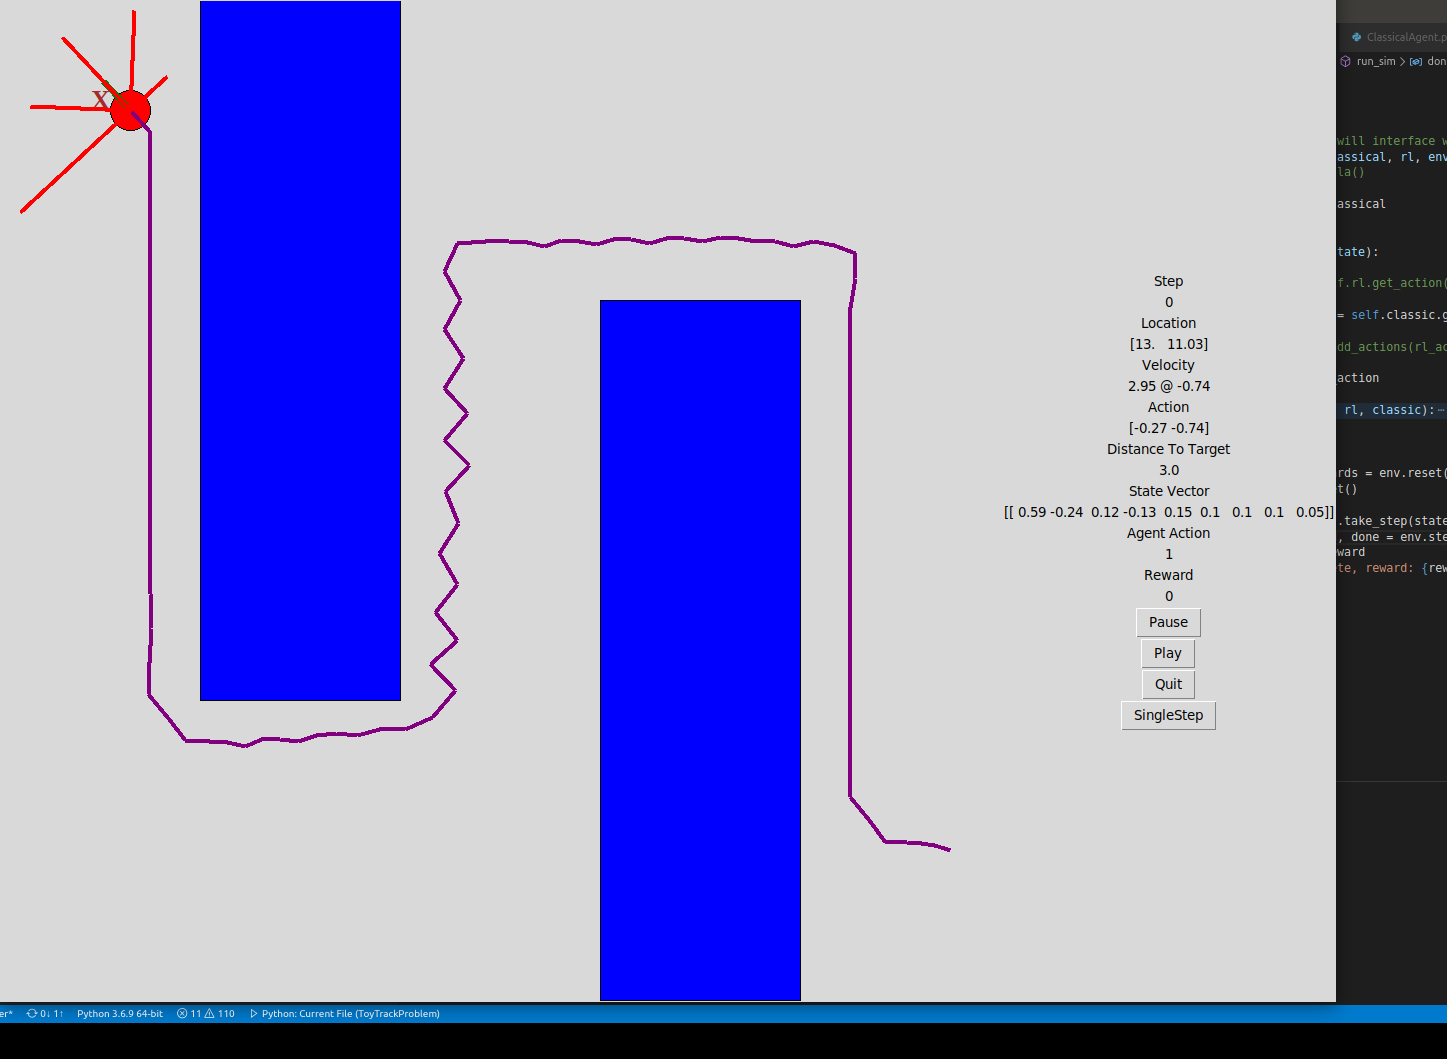
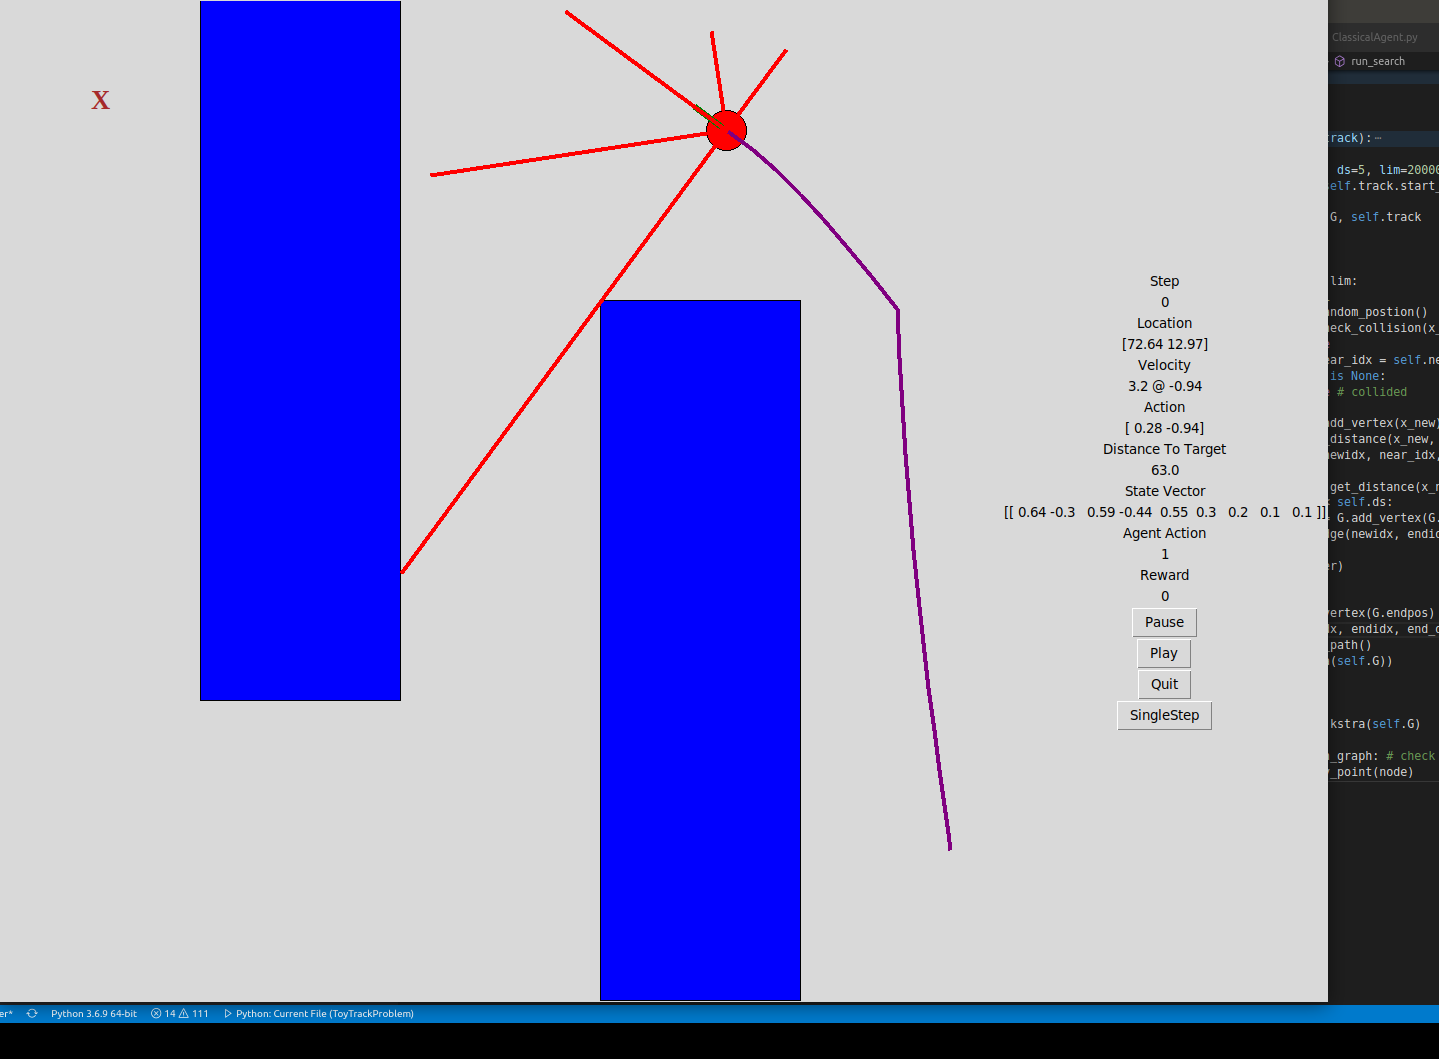
Added RRT

diff --git a/PathPlanner.py b/PathPlanner.py
@@ -2,6 +2,10 @@ import LibFunctions as f
 import numpy as np 
 from copy import deepcopy
 from Models import Path
+from collections import deque
+import matplotlib.pyplot as plt
+from matplotlib import collections  as mc
+
 
 class A_StarPathFinder:
     def __init__(self, track):
@@ -145,7 +149,6 @@ class A_StarPathFinder:
 
 
 
-
 class Node():
     """A node class for A* Pathfinding"""
     # helper class for a star
@@ -169,5 +172,176 @@ class Node():
 
             msg = msg1 + msg2 + msg3
             return msg
+
+
+class RRT_PathFinder:
+    def __init__(self, track):
+        self.ds = None
+        self.track = track
+        self.G = None
+
+    def run_search(self, ds=5, lim=20000):
+        self.G = Graph(self.track.start_location, self.track.end_location)
+        self.ds = ds
+        G, track = self.G, self.track
+
+        counter = 0
+
+        while counter < lim:
+            counter += 1
+            x_new = G.random_postion()
+            if track._check_collision(x_new):
+                continue
+            near_vex, near_idx = self.nearest(x_new)
+            if near_idx is None:
+                continue # collided
+
+            newidx = G.add_vertex(x_new)
+            dis = f.get_distance(x_new, near_vex)
+            G.add_edge(newidx, near_idx, dis)
+
+            end_dis = f.get_distance(x_new, self.track.end_location)
+            if end_dis < self.ds:
+                endidx = G.add_vertex(G.endpos)
+                G.add_edge(newidx, endidx, end_dis)
+                break
+            print(counter)
+
+        print("Success")
+        endidx = G.add_vertex(G.endpos)
+        G.add_edge(newidx, endidx, end_dis)
+        path = self.get_path()
+        plot(G, dijkstra(self.G))
+        return path
+
+    def get_path(self):
+        path_graph = dijkstra(self.G)
+        path = Path()
+        for node in path_graph: # check node data type
+            path.add_way_point(node)
+
+        return path
+
+    def nearest(self, x_new):
+        G, track = self.G, self.track
+        minDist = float("inf")
+        Nidx = None
+        nvex = None
+        for idx, v in enumerate(G.vertices):
+            if track.check_line_collision(v, x_new):
+                continue
+            dis = f.get_distance(v, x_new)
+            if dis < minDist:
+                minDist = dis
+                Nidx = idx
+                nvex = v
+
+        return nvex, Nidx
+
+
+class Graph:
+    def __init__(self, startpos, endpos):
+        self.startpos = tuple(startpos)
+        self.endpos = tuple(endpos)
+
+        self.vertices = [self.startpos]
+        self.edges = []
+        self.success = False
+
+        self.vex2idx = {self.startpos:0}
+        self.neighbors = {0:[]}
+
+        self.sx = endpos[0] - startpos[0]
+        self.sy = endpos[1] - startpos[1]
+
+    def add_vertex(self, pos):
+        try:
+            idx = self.vex2idx[pos]
+        except:
+            idx = len(self.vertices)
+            self.vertices.append(pos)
+            self.vex2idx[pos] = idx
+            self.neighbors[idx] = []
+        return idx
+
+
+    def add_edge(self, idx1, idx2, cost):
+        self.edges.append((idx1, idx2))
+        self.neighbors[idx1].append((idx2, cost))
+        self.neighbors[idx2].append((idx1, cost))
+
+    def random_postion(self):
+        rx = np.random.random()
+        ry = np.random.random()
+
+        posx = rx * 100
+        posy = ry * 100
+
+        # posx = self.startpos[0] - (self.sx / 2.) + rx * self.sx * 2
+        # posy = self.startpos[1] - (self.sy / 2.) + ry * self.sy * 2
+        return (posx, posy)
+
+
+#   '''
+#   Dijkstra algorithm for finding shortest path from startpos position to endpos.
+#   '''
+def dijkstra(G):
+    srcIdx = G.vex2idx[G.startpos]
+    dstIdx = G.vex2idx[G.endpos]
+
+    # build dijkstra
+    nodes = list(G.neighbors.keys())
+    dist = {node: float('inf') for node in nodes}
+    prev = {node: None for node in nodes}
+    dist[srcIdx] = 0
+
+    while nodes:
+        curNode = min(nodes, key=lambda node: dist[node])
+        nodes.remove(curNode)
+        if dist[curNode] == float('inf'):
+            break
+
+        for neighbor, cost in G.neighbors[curNode]:
+            newCost = dist[curNode] + cost
+            if newCost < dist[neighbor]:
+                dist[neighbor] = newCost
+                prev[neighbor] = curNode
+
+    # retrieve path
+    path = deque()
+    curNode = dstIdx
+    while prev[curNode] is not None:
+        path.appendleft(G.vertices[curNode])
+        curNode = prev[curNode]
+    path.appendleft(G.vertices[curNode])
+    return list(path)
+
+
+def plot(G, path=None):
+    px = [x for x, y in G.vertices]
+    py = [y for x, y in G.vertices]
+    fig, ax = plt.subplots()
+
+    # for obs in obstacles:
+    #     circle = plt.Circle(obs, radius, color='red')
+    #     ax.add_artist(circle)
+
+    ax.scatter(px, py, c='cyan')
+    ax.scatter(G.startpos[0], G.startpos[1], c='black')
+    ax.scatter(G.endpos[0], G.endpos[1], c='black')
+
+    lines = [(G.vertices[edge[0]], G.vertices[edge[1]]) for edge in G.edges]
+    lc = mc.LineCollection(lines, colors='green', linewidths=2)
+    ax.add_collection(lc)
+
+    if path is not None:
+        paths = [(path[i], path[i+1]) for i in range(len(path)-1)]
+        lc2 = mc.LineCollection(paths, colors='blue', linewidths=3)
+        ax.add_collection(lc2)
+
+    ax.autoscale()
+    ax.margins(0.1)
+    plt.show()
+
 
 

diff --git a/Models.py b/Models.py
@@ -5,6 +5,7 @@ from copy import deepcopy
 import LibFunctions as f
 import logging
 from copy import deepcopy
+import math
 
 
 class Path:
@@ -153,6 +154,17 @@ class TrackData(TrackConfig):
         for obs in self.hidden_obstacles:
             obs.set_random_location()
 
+    def check_line_collision(self, x1, x2):
+        n_checks = 50
+        m = (x2[1] - x1[1]) / (x2[0] - x1[0])
+        dx = (x2[0] - x1[0]) / n_checks
+        for i in range(n_checks):
+            # 10 points between beginning and end
+            x_add = [i * dx, i * m * dx]
+            x_search = f.add_locations(x_add, x1)
+            if self._check_collision(x_search):
+                return True
+        return False
 
 class Obstacle:
     def __init__(self, size=[0, 0]):

diff --git a/ClassicalAgent.py b/ClassicalAgent.py
@@ -1,5 +1,5 @@
 import numpy as np
-from PathPlanner import A_StarPathFinder
+from PathPlanner import A_StarPathFinder, RRT_PathFinder
 import LibFunctions as f
 from copy import deepcopy
 
@@ -9,6 +9,7 @@ class Classical:
         self.car = car
 
         self.path_finder = A_StarPathFinder(track)
+        self.path_finder = RRT_PathFinder(track)
         self.path = None # path to hold path in
 
         self.last_action_n = 0
